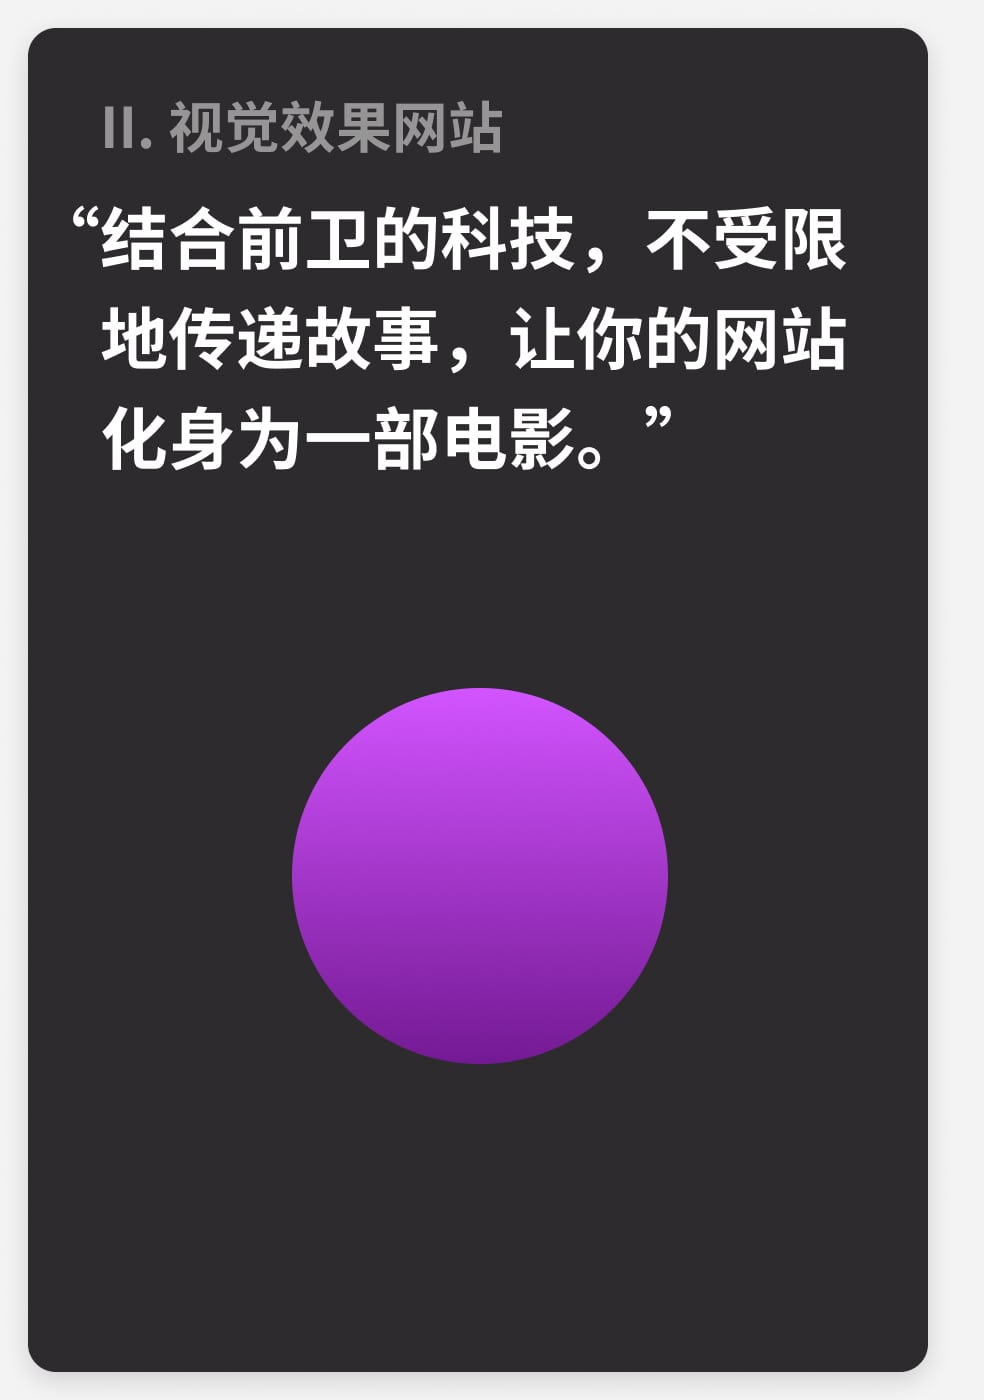
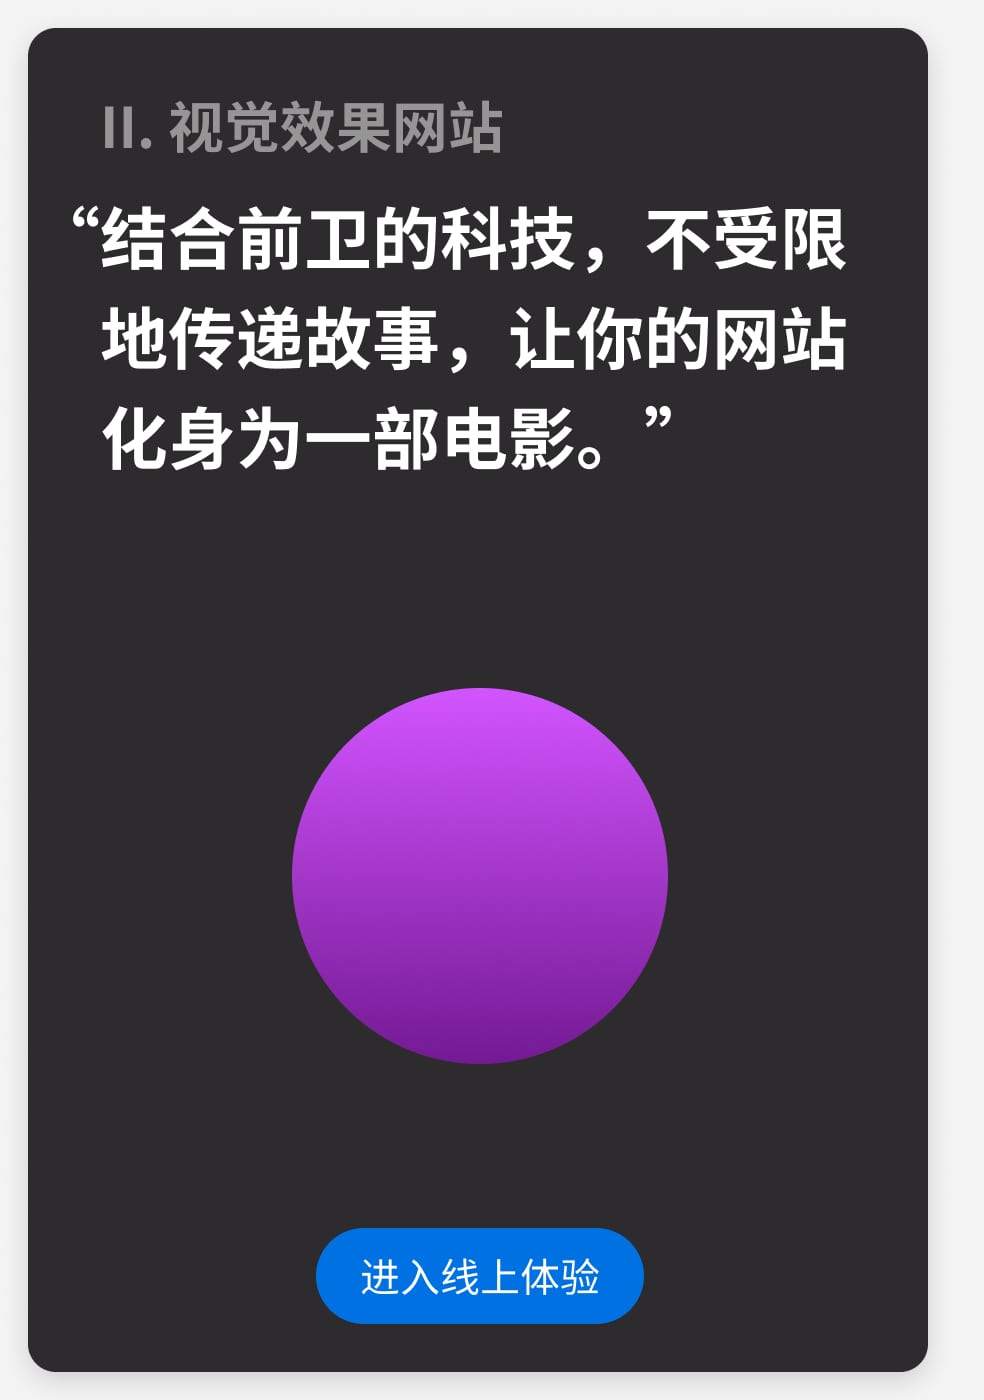
cta btn rta footer.jpg cta sin sphere

Changed region(s): [[0.3049, 0.86, 0.6707, 0.9521]]

diff --git a/src/index.css b/src/index.css
@@ -43,6 +43,9 @@ p{
   background: linear-gradient(180deg, rgba(45, 43, 45, 0) 64%, rgb(214, 214, 214) 100%);
 }
 
+.flex{
+  display: flex;
+}
 
 @media only screen and (max-width: 768px){
   .intro-text{
@@ -61,12 +64,36 @@ p{
   }
 }
 
-.cta{
-  margin: 7vw 6vw 0;
+.cta-container{
+  margin: 0vw 6vw 0;
+  transform: scale(1.3);
+  transform-origin: top left;
+}
+
+.btn{
+  min-width: 23px;
+  padding-left: 11px;
+  padding-right: 11px;
+  padding-top: 4px;
+  padding-bottom: 4px;
+  margin-right: 12px;
+  font-size: 12px!important;
+  border-radius: 12px;
+  background: transparent;
+  border: 1px solid #fff;
+    color: #fff;
+}
+
+.cta.btn{
+    
+    background: #0071E3;
+    color: #fff;
+    border: none;
+    
 }
 
 .cta--contact a{
-  text-decoration: underline;
+  text-decoration: none;
 }
 .cta--contact{
   position: absolute;
@@ -80,4 +107,83 @@ p{
   font-size: 18px;
   font-weight: 700;
 }
+
+
+
+    .rta{
+      width: 100vw;
+      text-align: center;
+
+      background: #F3f3f3;
+      box-shadow: 0px -4px 14px rgba(0, 0, 0, 0.17);
+      border-radius: 24px 24px 0px 0px;
+
+      position: fixed;
+      transform: translatey(100vh);
+      left: 0;
+      right: 0;
+      bottom: 0;
+      z-index: 50;
+      
+      transition: transform .7s var(--transition);
+    }
+
+    .rta.show{
+      transform: translatey(0);
+    }
+
+    .rta--wechat-content{
+      width: 50%;
+      margin: 42px auto 24px;
+    }
+
+    .rta--wechat-content img{
+      border-radius: 7px;
+    }
+
+    .rta .hint{
+      font-size: 16px;
+      margin: -16px 12px 12px;
+      color: #010101;
+    }
+
+    @media only screen and (min-width: 816px){
+      .rta{
+        width: 70vw;
+        left: 50%;
+        transform: translatey(100vh) translatex(-50%);
+      }
+      .rta.show{
+        transform: translatey(0) translatex(-50%);
+      }
+    }
+
+    #block{
+      position: fixed;
+      top:0;
+      right:0;
+      bottom:0;
+      left:0;
+      background: black;
+      opacity: 0;
+      z-index: 45;
+      pointer-events: none;
+      transition: opacity .5s var(--transition);
+    }
+
+    #block.show{
+      opacity:.3;
+      pointer-events: all;
+      transition: opacity .5s var(--transition);
+    }
+
+    .dragger{
+      width: 30vw;
+      height: 3px;
+      margin: 10px auto 24px;
+
+      background: #303030;
+      opacity: .5;
+      border-radius: 100px;
+    }
 

diff --git a/index.html b/index.html
@@ -56,15 +56,25 @@
           <h1>结合前卫的科技，不受限地传递故事，让你的网站化身为一部电影。”</h1>
         </div>
 
-        <div class="cta cta--contact">
-          <a href="mailto:info@minority.studio">info@minority.studio</a>
-          <p onclick="cta()"><u>Wechat:</u> minority_studio</p>
+        <div class="cta-container cta--contact flex">
+          <a class="btn" href="mailto:info@minority.studio">邮件我们</a>
+          <p class="cta btn" id="cta--contact">添加微信</p>
         </div>
 
         <div id="container" style="transform: translatey(2vw);"></div>
       </div>
 
     </main>
+
+    <div id="block"></div>
+    <div class="rta rta--wechat" id="rta--wechat">
+				<div class="dragger"></div>
+				
+				<div class="rta--wechat-content rounded" >
+					<img width="100%" src="/press/qr-wechat-min.jpg">
+				</div>
+        <p class="hint">长按图片或搜寻: minority_studio</p>
+    </div>
 
     <script src="./src/essentials.js" async></script>
     
@@ -73,9 +83,16 @@
     <script src="/dist/TrackballControls.js"></script>
     <script type="module" src="/src/scene.js"></script>
     <script>
-      function cta() {
-        alert("添加我们的微信号: minority_studio");
-      }
+      document.querySelector("#cta--contact").addEventListener("click", (event) => {
+        document.getElementById('rta--wechat').classList.add("show");
+        document.getElementById('block').classList.add("show");
+        // alert("添加我们的微信号: minority_studio");
+      });
+
+    document.querySelector("#block, .dragger").addEventListener("click", (event) => {
+      document.getElementById('rta--wechat').classList.remove("show");
+      document.getElementById('block').classList.remove("show");
+    });
     </script>
 
   </body>
